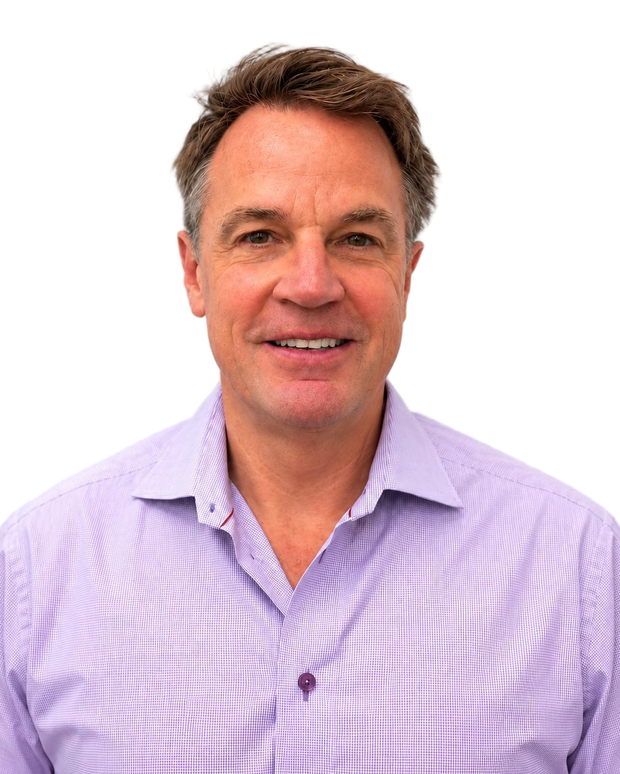
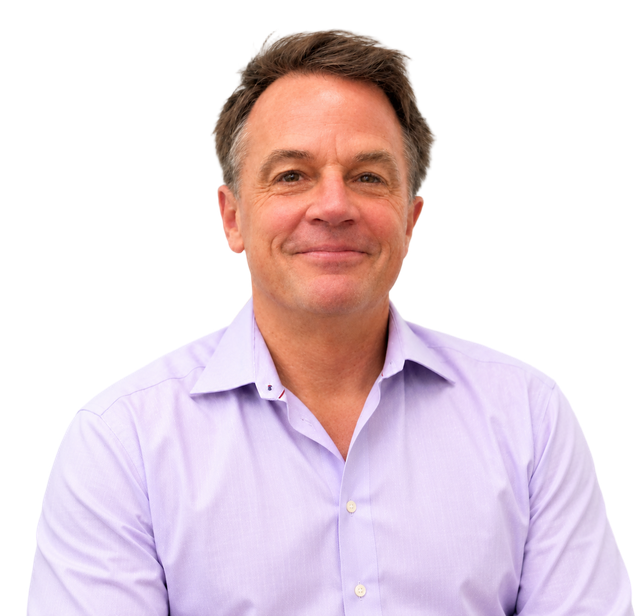
Tom 20/10: case study order Traction, Conditions, Trust; raise set to $5 million; wider portrait (photo sent 20/10), lighter side fade
Claude-Session: https://claude.ai/code/session_019hxRZNN5iVjCTJGeNpFnT5

diff --git a/index.html b/index.html
@@ -108,9 +108,9 @@ h3{font-size:1.1875rem; font-weight:600; letter-spacing:0}
 /* Plus grand et fondu en bas et sur les cotes (Paul, 19 et 20/10/2026): la photo ne s'arrete plus sur une coupe nette. */
 .portrait img{position:relative; z-index:1; width:100%; max-width:500px; height:auto;
   display:block; filter:drop-shadow(0 24px 48px rgba(0,0,0,.42));
-  -webkit-mask-image:linear-gradient(to bottom, #000 72%, transparent 100%), linear-gradient(to right, transparent 0, #000 14%, #000 86%, transparent 100%);
+  -webkit-mask-image:linear-gradient(to bottom, #000 72%, transparent 100%), linear-gradient(to right, transparent 0, #000 6%, #000 94%, transparent 100%);
   -webkit-mask-composite:source-in;
-  mask-image:linear-gradient(to bottom, #000 72%, transparent 100%), linear-gradient(to right, transparent 0, #000 14%, #000 86%, transparent 100%);
+  mask-image:linear-gradient(to bottom, #000 72%, transparent 100%), linear-gradient(to right, transparent 0, #000 6%, #000 94%, transparent 100%);
   mask-composite:intersect}
 @media(max-width:959px){.portrait img{max-width:340px}}
 .hero h1 .rupture{display:block; color:var(--gold)}
@@ -346,7 +346,7 @@ blockquote{font-size:clamp(1.5rem,3vw,2.125rem); font-style:italic; font-weight:
       </div>
     </div>
     <div class="portrait">
-      <img src="tom.png" alt="Tom Scally, creator of Signal Shift" width="620" height="774">
+      <img src="tom.png" alt="Tom Scally, creator of Signal Shift" width="640" height="616">
     </div>
     </div>
     <div class="trace">
@@ -467,19 +467,19 @@ blockquote{font-size:clamp(1.5rem,3vw,2.125rem); font-style:italic; font-weight:
       <div class="stat scan__tete"><span class="etiq">The Situation</span></div>
       <div class="stat scan__tete"><span class="etiq">The Signals</span></div>
       <div class="stat scan__tete"><span class="etiq">Independent Judgment</span></div>
-      <div class="stat" data-col="The Situation"><p>A private-market infrastructure company was preparing for a <strong class="chiffre">$10 million</strong> capital raise, while working to increase market visibility and generate new business.</p></div>
-      <div class="stat" data-col="The Signals"><p><strong>TRUST:</strong> Approximately <strong class="chiffre">40</strong> company announcements, but only <strong class="chiffre">one</strong> independent headline identified within a selected 20-outlet media panel.</p></div>
-      <div class="stat" data-col="Independent Judgment"><p><strong>ADJUST.</strong> Examine whether communications activity is translating into meaningful independent recognition.</p></div>
       <div class="stat" data-col="The Situation"><p>The company had an established operating presence and was expanding the number of securities issues serviced.</p></div>
       <div class="stat" data-col="The Signals"><p><strong>TRACTION:</strong> Securities issues serviced increased <strong class="chiffre">16%</strong>, while individual securityholder accounts declined <strong class="chiffre">21%</strong>.</p></div>
-      <div class="stat" data-col="Independent Judgment"><p>Clarify what the divergence means for customer mix, operating momentum, and the company&rsquo;s growth narrative.</p></div>
+      <div class="stat" data-col="Independent Judgment"><p><strong>ADJUST.</strong> Clarify what the divergence means for customer mix, operating momentum, and the company&rsquo;s growth narrative.</p></div>
       <div class="stat" data-col="The Situation"><p>The company operated in a private-market environment where activity was developing unevenly.</p></div>
       <div class="stat" data-col="The Signals"><p><strong>CONDITIONS:</strong> Differences in activity across crowdfunding, private placements, and fund-related offerings.</p></div>
       <div class="stat" data-col="Independent Judgment"><p>Examine whether changing market conditions influence where customer opportunities develop and who participates in provider-selection conversations.</p></div>
+      <div class="stat" data-col="The Situation"><p>A private-market infrastructure company was preparing for a <strong class="chiffre">$5 million</strong> capital raise, while working to increase market visibility and generate new business.</p></div>
+      <div class="stat" data-col="The Signals"><p><strong>TRUST:</strong> Approximately <strong class="chiffre">40</strong> company announcements, but only <strong class="chiffre">one</strong> independent headline identified within a selected 20-outlet media panel.</p></div>
+      <div class="stat" data-col="Independent Judgment"><p>Examine whether communications activity is translating into meaningful independent recognition.</p></div>
     </div>
     <div class="trouve prose">
       <h3 style="font-size:1.375rem; margin-bottom:.8rem">The Independent Judgment: ADJUST</h3>
-      <p>The findings did not establish that the company&rsquo;s direction was wrong. They identified three considerations worth examining: independent recognition, the meaning of diverging operating indicators, and changing market conditions.</p>
+      <p>The findings did not establish that the company&rsquo;s direction was wrong. They identified three considerations worth examining: the meaning of diverging operating indicators, changing market conditions, and independent recognition.</p>
     </div>
     <p class="prose">The value wasn&rsquo;t simply finding the numbers. It was recognizing why they might matter, interpreting them in context, and identifying what leadership should understand before moving forward.</p>
   </div>

diff --git a/about-tom.html b/about-tom.html
@@ -104,9 +104,9 @@ h3{font-size:1.1875rem; font-weight:600; letter-spacing:0}
   transparent 68%); z-index:0; pointer-events:none}
 .portrait img{position:relative; z-index:1; width:100%; max-width:380px; height:auto;
   display:block; filter:drop-shadow(0 24px 48px rgba(0,0,0,.42));
-  -webkit-mask-image:linear-gradient(to bottom, #000 72%, transparent 100%), linear-gradient(to right, transparent 0, #000 14%, #000 86%, transparent 100%);
+  -webkit-mask-image:linear-gradient(to bottom, #000 72%, transparent 100%), linear-gradient(to right, transparent 0, #000 6%, #000 94%, transparent 100%);
   -webkit-mask-composite:source-in;
-  mask-image:linear-gradient(to bottom, #000 72%, transparent 100%), linear-gradient(to right, transparent 0, #000 14%, #000 86%, transparent 100%);
+  mask-image:linear-gradient(to bottom, #000 72%, transparent 100%), linear-gradient(to right, transparent 0, #000 6%, #000 94%, transparent 100%);
   mask-composite:intersect}
 @media(max-width:959px){.portrait img{max-width:280px}}
 .hero h1 .rupture{display:block; color:var(--gold)}
@@ -269,9 +269,9 @@ blockquote{font-size:clamp(1.5rem,3vw,2.125rem); font-style:italic; font-weight:
   background:radial-gradient(circle,rgba(201,168,76,.20) 0%,rgba(201,168,76,0) 68%)}
 .portrait img{position:relative; z-index:1; width:100%; max-width:380px; height:auto;
   display:block;
-  -webkit-mask-image:linear-gradient(to bottom, #000 72%, transparent 100%), linear-gradient(to right, transparent 0, #000 14%, #000 86%, transparent 100%);
+  -webkit-mask-image:linear-gradient(to bottom, #000 72%, transparent 100%), linear-gradient(to right, transparent 0, #000 6%, #000 94%, transparent 100%);
   -webkit-mask-composite:source-in;
-  mask-image:linear-gradient(to bottom, #000 72%, transparent 100%), linear-gradient(to right, transparent 0, #000 14%, #000 86%, transparent 100%);
+  mask-image:linear-gradient(to bottom, #000 72%, transparent 100%), linear-gradient(to right, transparent 0, #000 6%, #000 94%, transparent 100%);
   mask-composite:intersect}
 @media(max-width:959px){.portrait img{max-width:260px}}
 </style>
@@ -300,7 +300,7 @@ blockquote{font-size:clamp(1.5rem,3vw,2.125rem); font-style:italic; font-weight:
       </div>
     </div>
     <div class="portrait">
-      <img src="tom.png" alt="Tom Scally, founder of Signal Shift" width="620" height="774">
+      <img src="tom.png" alt="Tom Scally, founder of Signal Shift" width="640" height="616">
     </div>
   </div></div>
 </section>
